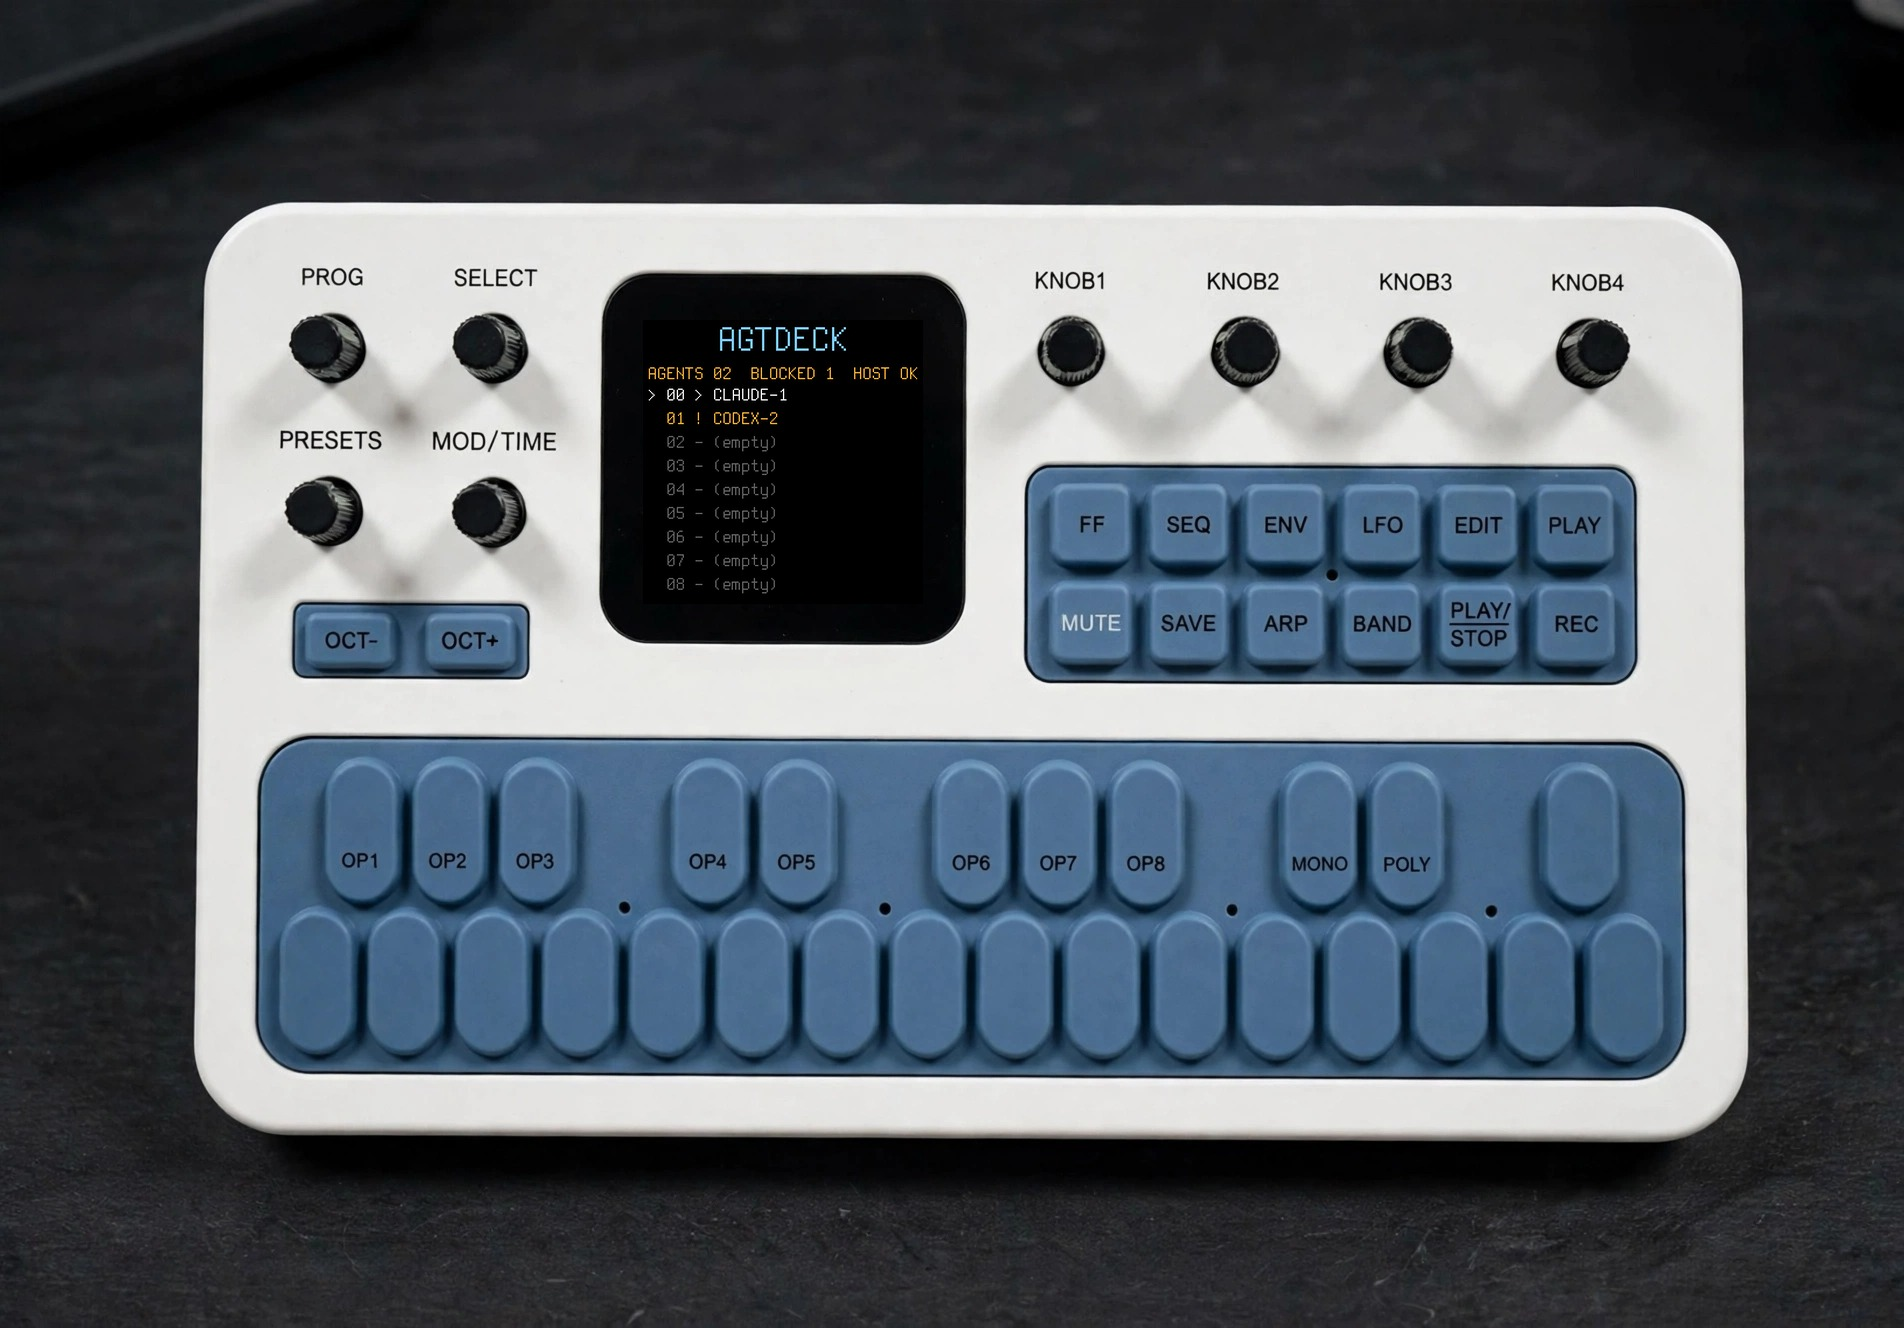
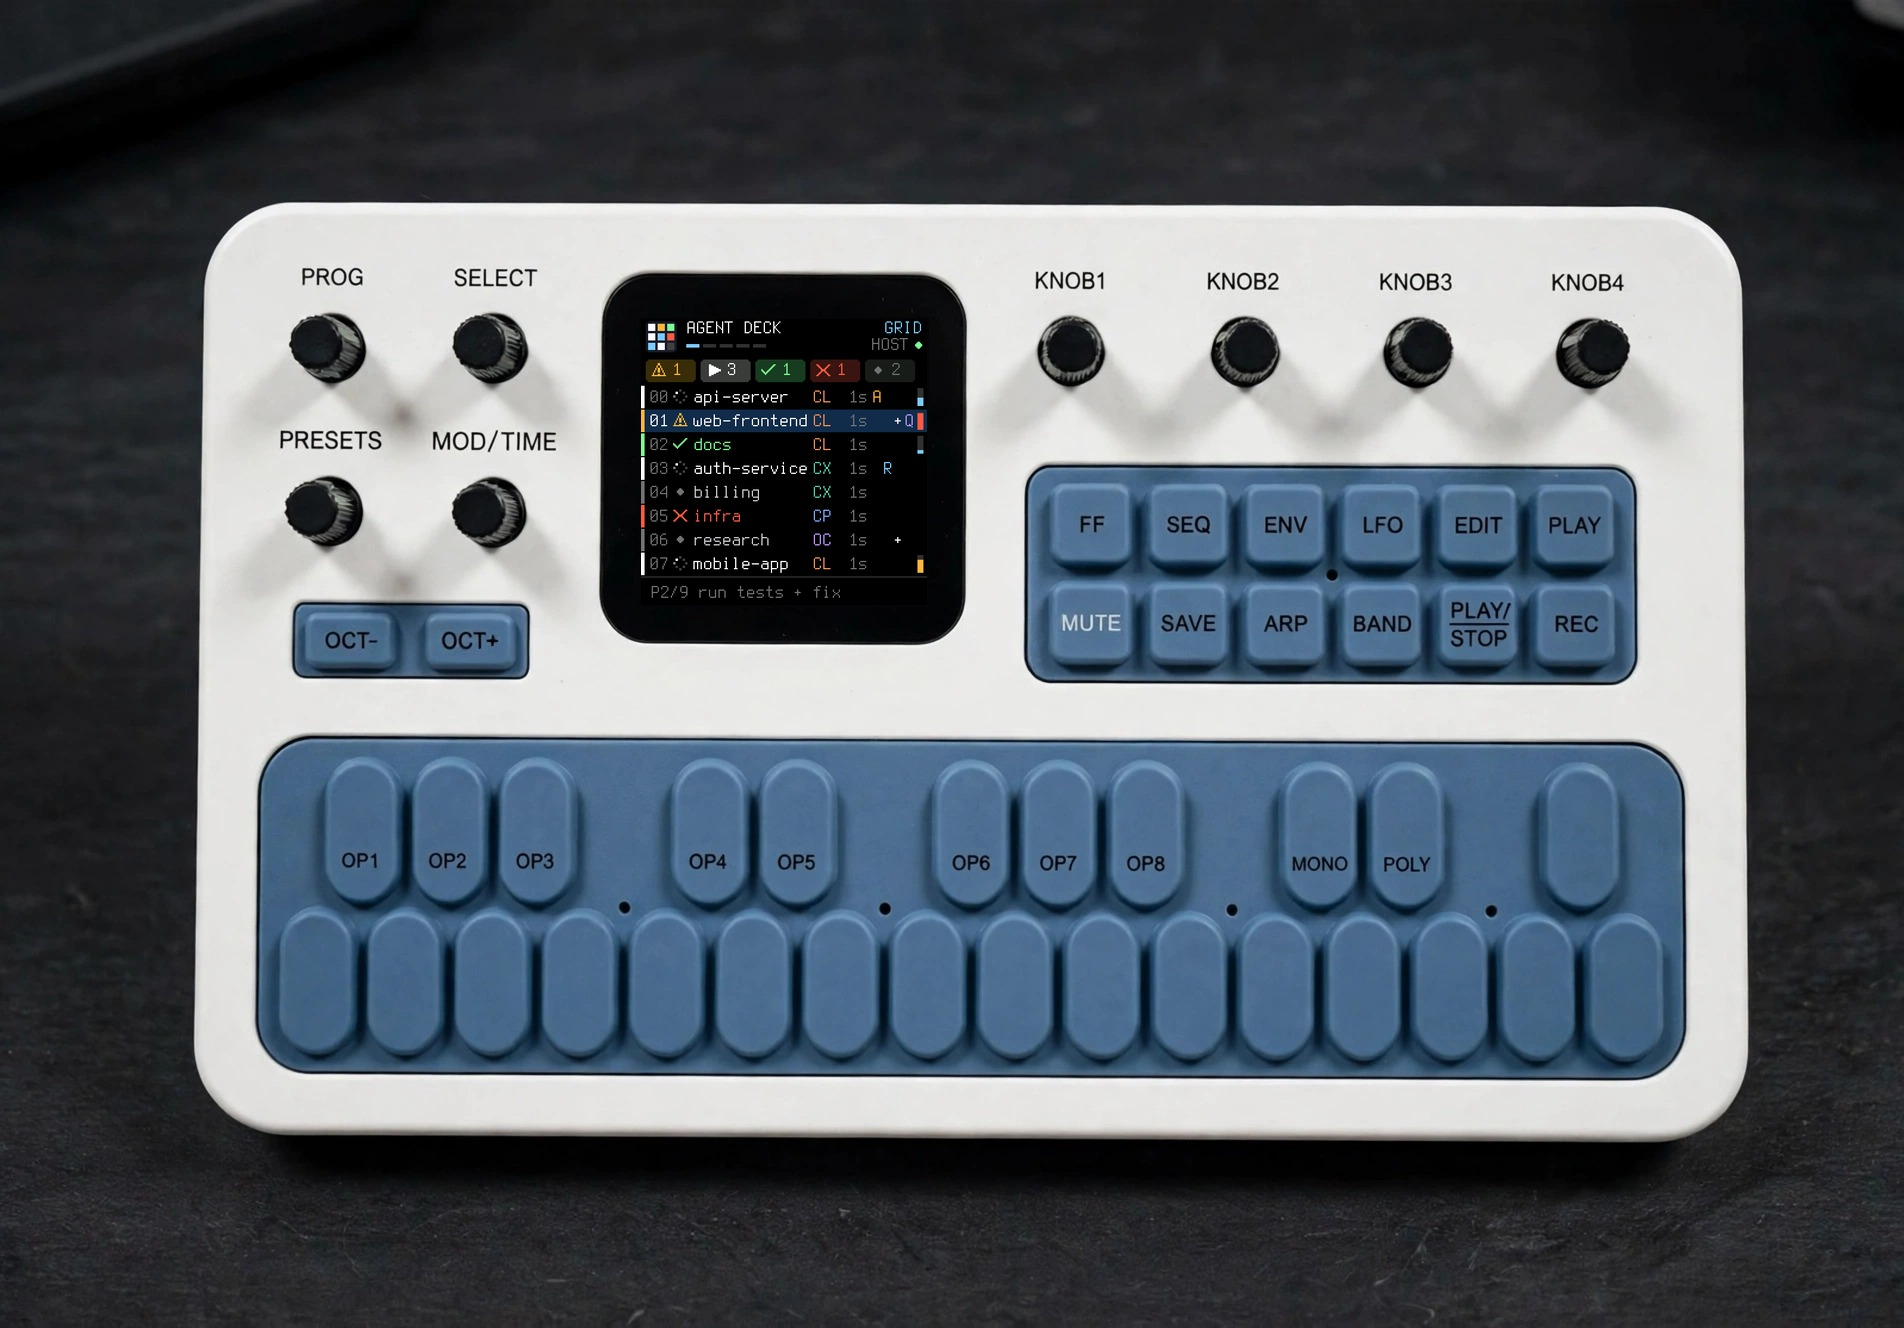
Screenshots: emu_shots.py, 19 screens, new animation and hero screen
One fm1-emu run per scene on the packaged firmware. Replaces the six
emu-*.png captures; the hero image's display now shows the 0.6.1 GRID.

Changed region(s): [[0.3099, 0.2161, 0.4958, 0.4631]]

diff --git a/tools/emu_shots.py b/tools/emu_shots.py
@@ -1,0 +1,336 @@
+#!/usr/bin/env python3
+"""emu_shots.py - the README's screenshots, from the packaged firmware.
+
+Boots the newest dist/agentdeck-*.fwsc in fm1-emu once per scene, feeds it
+the frames a daemon would send for that scene (through the MIDI IN jack,
+as tools/emu_test.py does), presses what needs pressing, and saves the LCD
+as docs/shot-*.png (2x, crisp pixels). It also strings a few of them into
+docs/emu-demo.gif, the animation at the top of the README.
+
+Nothing here is drawn by hand: every image is the LCD of the firmware
+package itself. The scenes are made up (a fleet of eight agents with
+plausible names); the pixels are not.
+
+Usage:
+  tools/get_emu.sh                    # one-time: fetch the fm1-emu binary
+  python3 tools/emu_shots.py          # every scene -> docs/
+  python3 tools/emu_shots.py grid about   # just these scenes
+  python3 tools/emu_shots.py --out build/shots
+
+Requires Pillow.
+"""
+import argparse
+import os
+import subprocess
+import sys
+import tempfile
+
+sys.path.insert(0, os.path.dirname(os.path.abspath(__file__)))
+import emu_test                                              # noqa: E402
+
+ROOT = emu_test.ROOT
+CC_CTRL, CC_DATA = 118, 119
+SLOT, DETAIL, META, FOOTER, SELECT, TEXT, PAGE, GAUGE, HELLO_ACK = \
+    0x01, 0x02, 0x03, 0x04, 0x06, 0x07, 0x08, 0x0B, 0x0F
+EMPTY, IDLE, WORKING, BLOCKED, DONE, ERROR = 0, 1, 2, 3, 4, 5
+CLAUDE, CODEX, OPENCODE, GROK, COPILOT, SHELL = 1, 2, 3, 4, 5, 6
+AUTO, LOOP, MARK, QUEUE = 0x40, 0x20, 0x10, 0x08
+P_GRID, P_DETAIL, P_APPROVALS, P_MENU, P_ABOUT = 0, 1, 2, 3, 4
+
+# (slot, state, kind, flags, name, context %)
+FLEET = [
+    (0, WORKING, CLAUDE, AUTO, "api-server", 42),
+    (1, BLOCKED, CLAUDE, MARK | QUEUE, "web-frontend", 91),
+    (2, DONE, CLAUDE, 0, "docs", 18),
+    (3, WORKING, CODEX, LOOP, "auth-service", None),
+    (4, IDLE, CODEX, 0, "billing", None),
+    (5, ERROR, COPILOT, 0, "infra", None),
+    (6, IDLE, OPENCODE, MARK, "research", None),
+    (7, WORKING, CLAUDE, 0, "mobile-app", 67),
+]
+MORE = ["search", "payments", "ingest", "worker", "gateway", "cli", "sdk-js",
+        "sdk-py", "billing-ui", "admin", "etl", "ml-train", "ml-serve",
+        "notifier", "scheduler", "cache", "edge", "metrics", "tracing"]
+STATES = [WORKING, IDLE, WORKING, DONE, IDLE, BLOCKED, WORKING, IDLE, ERROR]
+
+
+class Scene:
+    """A timeline of emulator inputs and LCD snapshots."""
+
+    def __init__(self):
+        self.items = []
+        self.snaps = []                 # (ms, name)
+        self.t = 2000
+
+    def cc(self, ctrl, val):
+        self.items.append("%d:midi:bf%02x%02x" % (self.t, ctrl, val))
+        self.t += 3
+
+    def frame(self, ftype, payload):
+        self.cc(CC_CTRL, 0x10 | ftype)
+        for b in bytes(payload):
+            self.cc(CC_DATA, b & 0x7F)
+        self.cc(CC_CTRL, 0x20)
+
+    def text(self, ftype, head, s):
+        self.frame(ftype, bytes(head) + s.encode("ascii", "replace"))
+
+    def hello(self):
+        self.cc(CC_CTRL, 0x7F)                               # RESET
+        self.frame(HELLO_ACK, [6])
+        self.text(TEXT, [8, 0], "0.6 via herdr")             # ABOUT's lines
+        self.text(TEXT, [9, 0], "macOS, python 3.12")
+        self.footer(0, "P2/9 run tests + fix")
+
+    def footer(self, style, s):
+        self.text(FOOTER, [style], s)
+
+    def slot(self, slot, state, kind, flags, name, gauge=None):
+        self.text(SLOT, [slot, state, kind | flags], name)
+        if gauge is not None:
+            self.frame(GAUGE, [slot, gauge])
+
+    def fleet(self, agents=FLEET, view=0):
+        for a in agents:
+            self.slot(*a)
+        self.meta(agents, view)
+
+    def meta(self, agents, view=0):
+        self.frame(META, [len(agents),
+                          sum(1 for a in agents if a[1] == BLOCKED), view])
+
+    def detail(self, lines):
+        for i in range(6):
+            self.text(DETAIL, [i], lines[i] if i < len(lines) else "")
+
+    def menu(self, title, rows, cursor=0):
+        self.text(TEXT, [0, 1], title)
+        for i in range(7):
+            row = rows[i] if i < len(rows) else ""
+            on = i == cursor and row
+            self.text(TEXT, [i + 1, 5 if on else 6],
+                      ("> " if on else "  ") + row if row else "")
+
+    def press(self, name):
+        self.t += 150
+        self.items.append("%d:%s" % (self.t, name))
+        self.t += 150
+
+    def snap(self, name, settle=1300):
+        """Shoot once the screen has had `settle` ms to catch up."""
+        self.t += settle
+        self.snaps.append((self.t, name))
+        self.t += 100
+
+
+def big_fleet(n):
+    out = list(FLEET)
+    for i in range(8, n):
+        out.append((i, STATES[i % len(STATES)],
+                    [CLAUDE, CODEX, CLAUDE, OPENCODE, COPILOT, GROK][i % 6],
+                    0, MORE[(i - 8) % len(MORE)],
+                    (i * 37) % 100 if i % 3 == 0 else None))
+    return out
+
+
+def scene_boot(s):
+    s.snaps += [(400, "splash"), (1900, "no-host")]
+    s.t = 2400
+
+
+def scene_empty(s):
+    s.hello()
+    s.frame(META, [0, 0, 0])
+    s.snap("empty")
+
+
+def scene_grid(s):
+    s.hello()
+    s.fleet()
+    s.frame(SELECT, [1])
+    s.snap("grid")
+    s.footer(3, "web-fronte: Bash npm test")
+    s.snap("grid-alert", 700)
+    s.footer(0, "P2/9 run tests + fix")
+    s.press("HOME")                                          # the boxes
+    s.snap("boxes-8")
+
+
+def scene_boxes(s):
+    s.hello()
+    s.fleet(FLEET[:4])
+    s.frame(SELECT, [1])
+    s.press("HOME")
+    s.snap("boxes-4")
+    s.fleet(big_fleet(16))
+    s.snap("boxes-16")
+    s.fleet(big_fleet(27))
+    s.snap("boxes-27")
+
+
+def scene_detail(s):
+    s.hello()
+    s.fleet()
+    s.frame(SELECT, [1])
+    s.frame(PAGE, [P_DETAIL])
+    s.detail(["Bash command",
+              "  npm test -- --watch=false",
+              "Do you want to proceed?",
+              "> 1. Yes",
+              "  2. Yes, and don't ask again",
+              "  3. No, tell Claude what to do"])
+    s.footer(3, "web-fronte: Bash npm test")
+    s.snap("detail-output")
+    s.footer(0, "P2/9 run tests + fix")
+    s.meta(FLEET, 1)
+    s.detail(["Fix flaky login test",
+              "fable-5-2 ctx 182k",
+              "mode default git main ~6",
+              "QUEUE 1: P5",
+              "ASKED: run the tests and fix",
+              "WANTS: Bash npm test"])
+    s.snap("detail-info")
+    s.meta(FLEET, 2)
+    s.detail(["6 FILES +214 -87",
+              "+120 -41 login.test.ts",
+              "+58 -30 session.ts",
+              "+22 -9 auth.ts",
+              "new: fixtures/users.json",
+              "-- recent commits --"])
+    s.snap("detail-diff")
+
+
+def scene_approvals(s):
+    waiting = [(a[0], BLOCKED if a[0] in (3, 7) else a[1]) + a[2:]
+               for a in FLEET]
+    s.hello()
+    s.fleet(waiting)
+    s.frame(SELECT, [1])
+    s.frame(PAGE, [P_APPROVALS])
+    s.snap("approvals")
+    s.fleet([(a[0], WORKING if a[1] == BLOCKED else a[1]) + a[2:]
+             for a in waiting])
+    s.footer(2, "APPROVED x3")
+    s.snap("all-clear")
+
+
+def scene_menu(s):
+    s.hello()
+    s.fleet()
+    s.frame(SELECT, [1])
+    s.frame(PAGE, [P_MENU])
+    s.menu("MENU - web-frontend",
+           ["THIS AGENT", "FLEET", "NEW AGENT", "SEND PROMPT", "EVENT LOG",
+            "CLOSE AGENT", "SETTINGS"])
+    s.snap("menu")
+    rows = [(0, ">", " ", "api-server", "12m", "84k"),     # the daemon's
+            (1, "!", "+", "web-frontend", "48s", "182k"),   # own format
+            (2, "*", " ", "docs", " 3m", "36k"),
+            (3, ">", " ", "auth-service", " 6m", ""),
+            (4, ".", " ", "billing", "41m", ""),
+            (5, "x", " ", "infra", " 2m", "")]
+    s.menu("FLEET 8 1! 3> 1* 1x 2.",
+           ["CLEAR MARKS (2)"] + ["%02d %s%s%-10s %3s %s" % (
+               n, g, m, name[:10], age, ctx) for n, g, m, name, age, ctx
+               in rows], 2)
+    s.snap("menu-fleet")
+    s.menu("SETTINGS",
+           ["SOUNDS: ON", "FEEDBACK SOUNDS: ON", "BLOCKED ALERT: LOUD",
+            "NAG WHILE BLOCKED: 5M", "DESKTOP NOTIFY: OFF",
+            "FOLLOW THE BLOCKED: ON", "FOCUS ON EDIT: ON"], 3)
+    s.snap("menu-settings")
+    s.menu("web-frontend",
+           ["VIEW: INFO", "REPEAT PROMPT: OFF", "AUTO-APPROVE: OFF",
+            "MARKED: YES", "MUTED: NO", "QUEUED: 1 - CLEAR", "COMMANDS"], 6)
+    s.snap("menu-agent")
+
+
+def scene_about(s):
+    s.hello()
+    s.fleet()
+    s.frame(PAGE, [P_ABOUT])
+    s.snap("about")
+
+
+SCENES = {"boot": scene_boot, "empty": scene_empty, "grid": scene_grid,
+          "boxes": scene_boxes, "detail": scene_detail,
+          "approvals": scene_approvals, "menu": scene_menu,
+          "about": scene_about}
+# the README's top animation: (shot, seconds)
+DEMO = [("splash", 1.2), ("grid", 2.2), ("boxes-8", 2.2),
+        ("detail-output", 2.2), ("detail-info", 1.8), ("approvals", 2.0),
+        ("all-clear", 1.6), ("menu", 1.6), ("about", 2.0)]
+
+
+def run_scene(emu, fwsc, name, out):
+    s = Scene()
+    SCENES[name](s)
+    with tempfile.TemporaryDirectory() as tmp:
+        os.makedirs(os.path.join(tmp, "work"))
+        cmd = [emu, "--fwsc", fwsc, "--ms", str(s.t + 300),
+               "--snap", ",".join(str(t) for t, _ in s.snaps)]
+        if s.items:
+            cmd += ["--keys", ",".join(s.items)]
+        r = subprocess.run(cmd, cwd=tmp, capture_output=True, text=True)
+        if r.returncode != 0:
+            print("  fm1-emu exited %d on scene %s" % (r.returncode, name),
+                  file=sys.stderr)
+            return False
+        ok = True
+        for t, shot in s.snaps:
+            bmp = os.path.join(tmp, "work", "lcd_%d.bmp" % t)
+            png = os.path.join(out, "shot-%s.png" % shot)
+            if not os.path.isfile(bmp) or emu_test.convert(bmp, png) is None \
+                    or not emu_test.nonblank(png):
+                print("  MISSING or blank: %s" % shot, file=sys.stderr)
+                ok = False
+            else:
+                print("  %s" % os.path.relpath(png, ROOT))
+        return ok
+
+
+def make_gif(out):
+    from PIL import Image
+    frames, times = [], []
+    for shot, secs in DEMO:
+        path = os.path.join(out, "shot-%s.png" % shot)
+        if not os.path.isfile(path):
+            return None
+        frames.append(Image.open(path).convert("P", palette=Image.ADAPTIVE,
+                                               colors=64))
+        times.append(int(secs * 1000))
+    path = os.path.join(out, "emu-demo.gif")
+    frames[0].save(path, save_all=True, append_images=frames[1:],
+                   duration=times, loop=0, optimize=True)
+    return path
+
+
+def main():
+    ap = argparse.ArgumentParser(description=__doc__.splitlines()[0])
+    ap.add_argument("scenes", nargs="*", help="default: all (%s)"
+                    % " ".join(SCENES))
+    ap.add_argument("--fwsc", default=emu_test.newest_fwsc())
+    ap.add_argument("--out", default=os.path.join(ROOT, "docs"))
+    ap.add_argument("--emu", default=None)
+    args = ap.parse_args()
+    emu = args.emu or emu_test.find_emu()
+    if not emu:
+        print("fm1-emu not found: run tools/get_emu.sh", file=sys.stderr)
+        return 2
+    os.makedirs(args.out, exist_ok=True)
+    ok = True
+    for name in args.scenes or list(SCENES):
+        if name not in SCENES:
+            print("no such scene: %s" % name, file=sys.stderr)
+            return 2
+        print("scene %s (%s)" % (name, os.path.basename(args.fwsc)))
+        ok = run_scene(emu, args.fwsc, name, args.out) and ok
+    if not args.scenes:
+        gif = make_gif(args.out)
+        print("animation: %s" % (os.path.relpath(gif, ROOT) if gif
+                                 else "skipped (a shot is missing)"))
+    return 0 if ok else 1
+
+
+if __name__ == "__main__":
+    sys.exit(main())

diff --git a/tools/emu_test.py b/tools/emu_test.py
@@ -17,8 +17,9 @@ What it does:
      HELLO_ACK, META, two SLOT frames (CLAUDE-1 working, CODEX-2
      blocked), four DETAIL lines for the selected agent, a FOOTER
      (the armed prompt preset) and a BEEP (the attention chime).
-  3. Turns the ALGORITHM encoder three times to walk GRID -> DETAIL ->
-     APPROVALS -> MENU (whose text the frame stream also carried).
+  3. Turns the ALGORITHM encoder to walk GRID -> DETAIL -> APPROVALS ->
+     MENU (whose text the frame stream also carried) -> ABOUT and back to
+     the GRID, then presses HOME there for the box view.
   4. Snapshots the LCD at each page and checks the run: clean exit, the
      CPU ran the full session without a halt (an unknown opcode or a
      wild jump halts the core, so a full-length run is the clean-decode
@@ -28,7 +29,8 @@ Usage:
   tools/get_emu.sh                 # one-time: fetch the fm1-emu binary
   python3 tools/emu_test.py        # full session -> build/emu-test/
   python3 tools/emu_test.py --boot-only   # quick boot check (~1/3 time)
-  python3 tools/emu_test.py --out docs    # regenerate the README shots
+
+The README's screenshots come from tools/emu_shots.py, not from here.
 
 fm1-emu binary lookup: $FM1_EMU, then tools/fm1-emu-bin/fm1-emu, then
 PATH. Note the x86-64 build interprets (no JIT yet): a 13 s emulated
